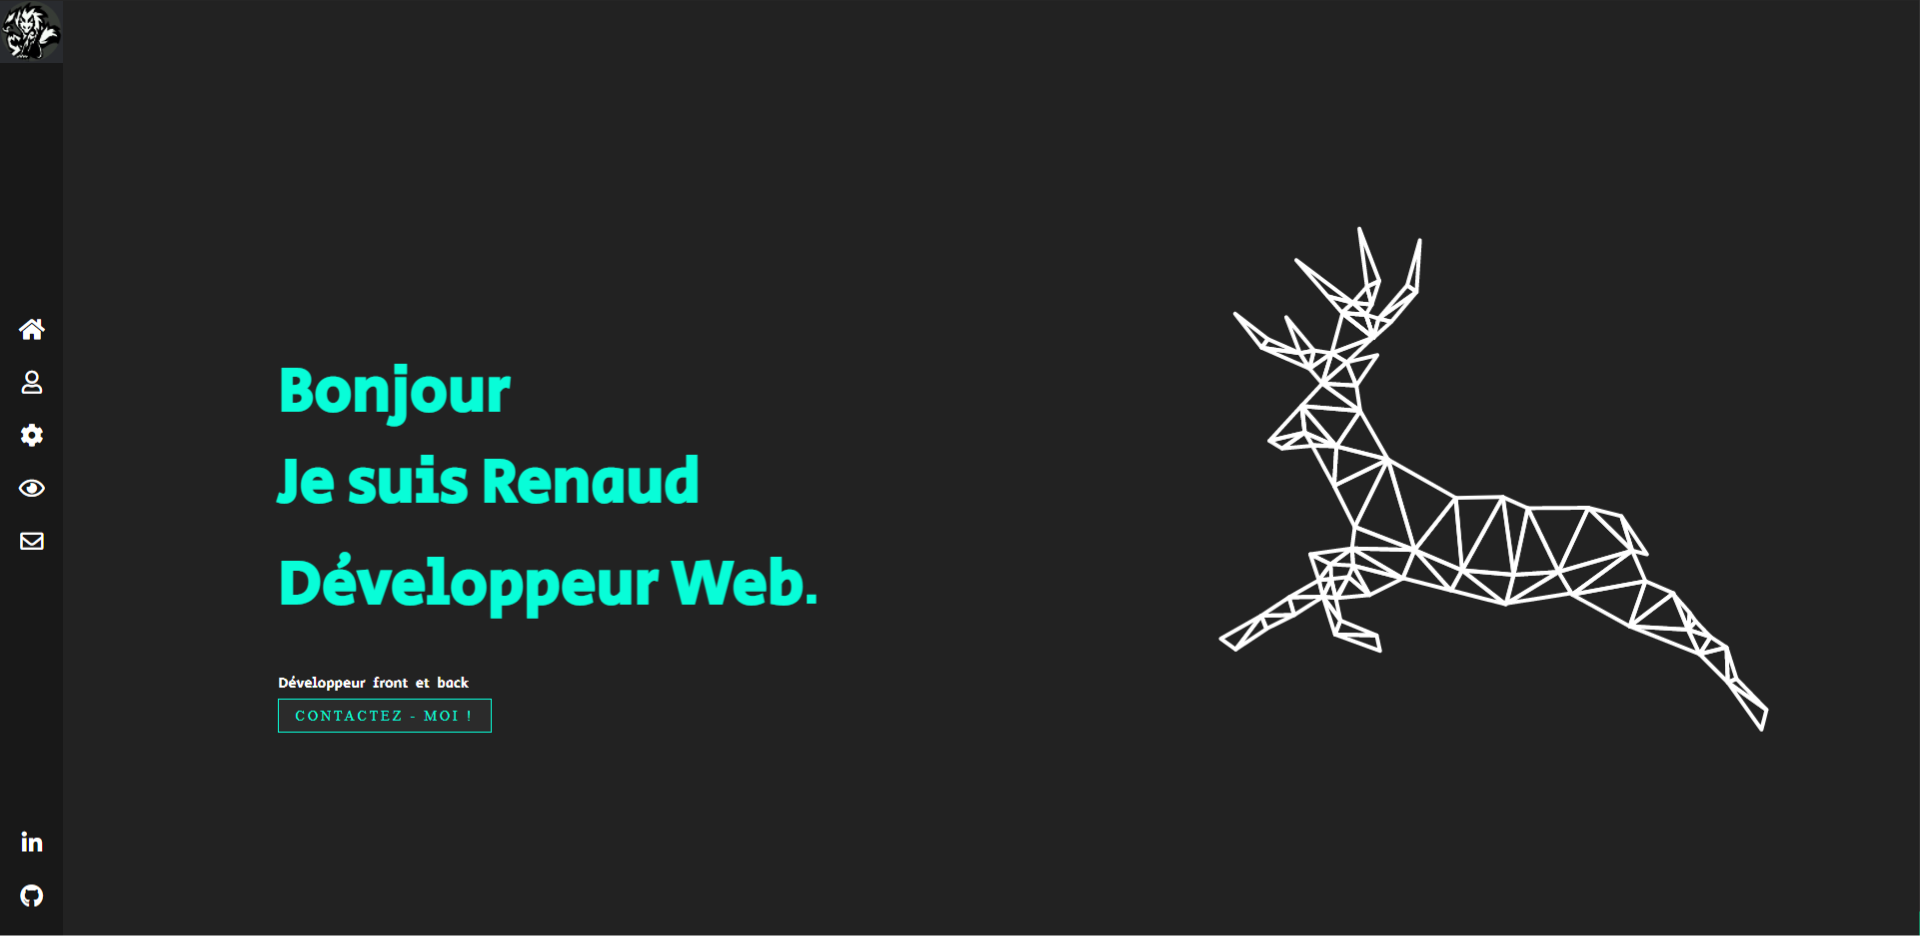
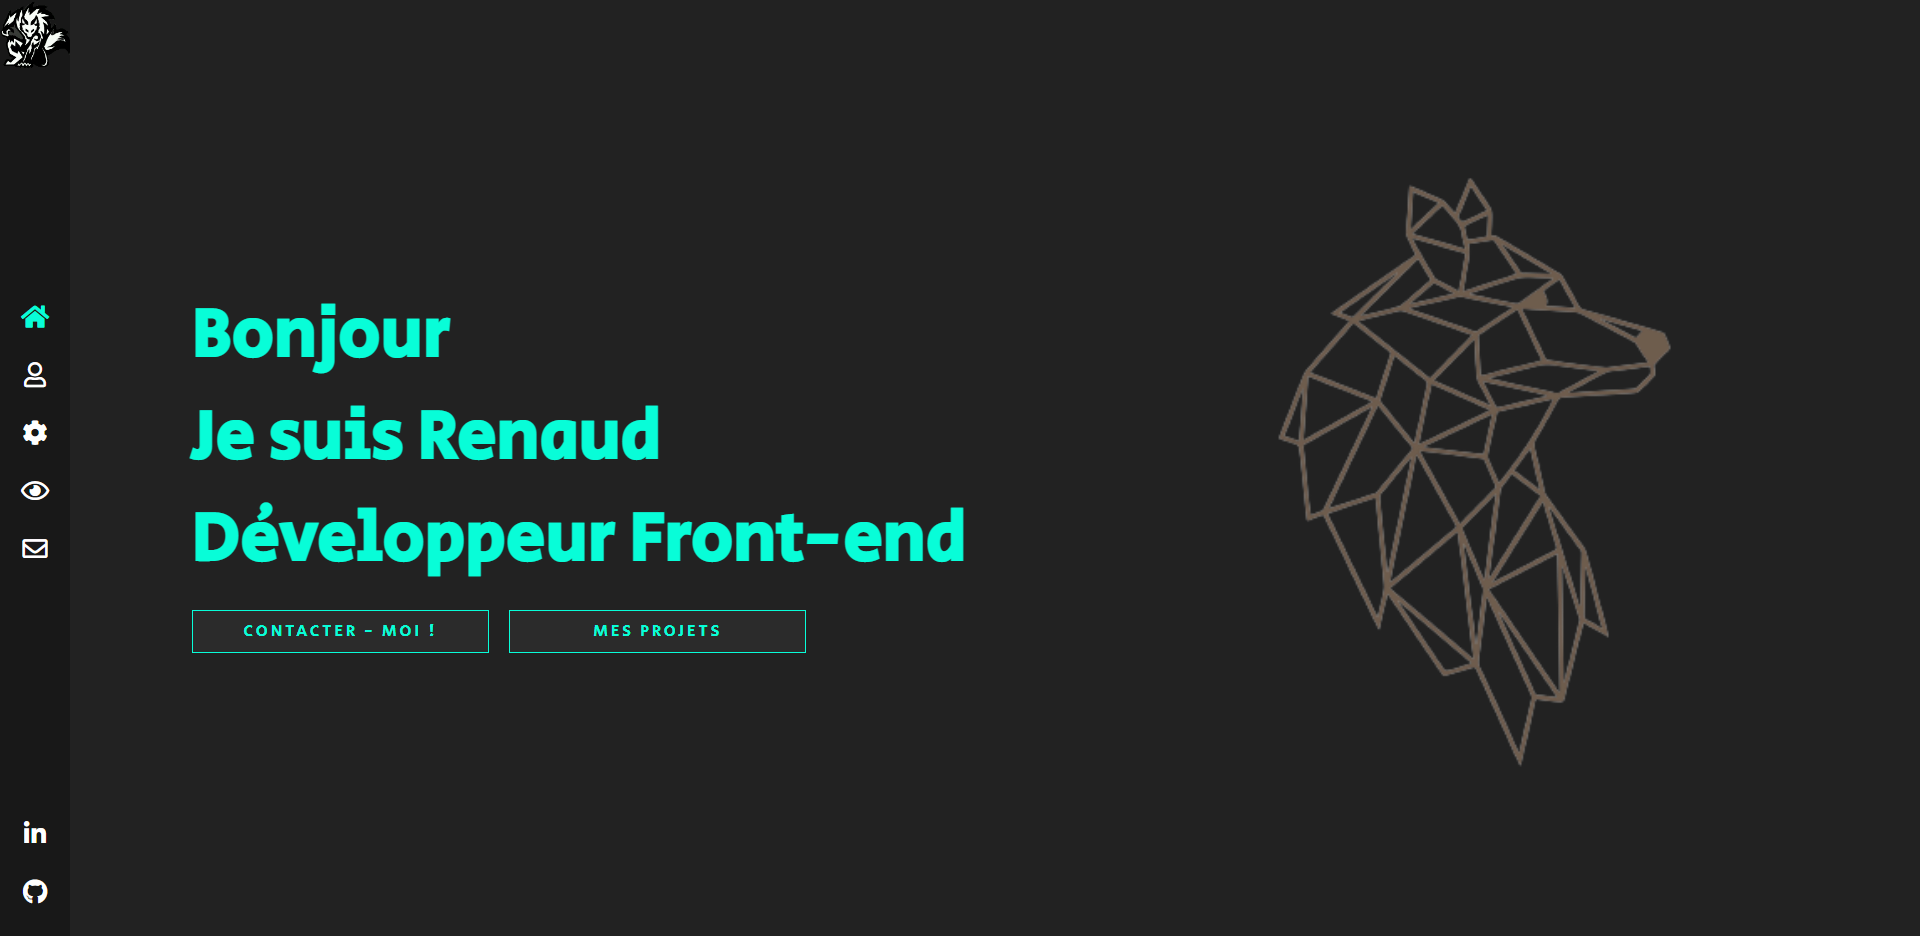
update : update style mobile , data project

diff --git a/src/components/Contact/Contact.vue b/src/components/Contact/Contact.vue
@@ -1,39 +1,39 @@
 <script>
 import { defineComponent } from 'vue'
-import emailjs from 'emailjs-com';
-import { ref } from 'vue';
+// import emailjs from '@emailjs/browser';
 
 export default defineComponent({
-  setup() {
-    const form = ref(null);
-    const inputFieldReset = ref(null);
-  },
-  methods: {
-    sendEmail(e) {
-      try {
-        emailjs.sendForm(this.emailServiceID, this.emailTemplateID, form.value, this.emailPublicKey)
-        .then((result) => {
-          console.log('SUCCESS!', result.text);
-        }, (error) => {
-          console.log('FAILED...', error.text);
-        });
-      } catch (error) {
-        console.log(error);
-      }
-    }
-  },
   data() {
     return {
-      sujet: '',
-      content: '',
-      form_name: '',
-      from_email: '',
+      sujet: null,
+      content: null,
+      form_name: null,
+      from_email: null,
       emailPublicKey: import.meta.env.VITE_EMAIL_PUBLIC_KEY,
       emailPrivateKey: import.meta.env.VITE_EMAIL_PRIVATE_KEY,
       emailServiceID: import.meta.env.VITE_EMAIL_SERVICE_ID,
       emailTemplateID: import.meta.env.VITE_EMAIL_TEMPLATE_KEY,
     }
-  }
+  },
+  methods:{
+    // sendEmail(e) {
+    //   console.log(e);
+    //   try {
+    //     emailjs.send('service_3gagdhh', 'template_bjr6xev', e.target,'8ai34btHdzJlxV8YL', {
+    //       subject: "subject vuye",
+    //       content: "content vuye",
+    //       from_name: "test1 vuye",
+    //       from_email: "renaudddddddfradin@gmail.com vuye",
+    //     })
+    //     .then((response) => {
+    //       console.log('succes', response.status, response);
+    //     })
+    //   } catch (error) {
+    //     console.log(error);
+    //   }
+    // }
+  },
+
 })
 </script>
 
@@ -41,16 +41,15 @@ export default defineComponent({
   <div class="contactCard">
     <h1 class="contactTitle">Contactez moi</h1>
     <p>Je suis interessé par les grands ou petits projets : il n'y a que la création qui compte !</p>
-    <p>Si vous avez des questions, n'hésitez pas à me contacter en utilisant mon adresse mail ou mon linkedin :</p>
-    <p>renaudfradin@gmail.com</p>
-    <a href="https://www.linkedin.com/in/Renaudfradin/" class="contactLink" target="_blank">Linkedin Renaud fradin</a>
-    <form ref="form" @submit.prevent="sendEmail" class="form">
-      <input type="text" name="from_name" class="formInput">
-      <input type="text" name="from_email" class="formInput">
-      <input type="text" name="content" class="formInput">
-      <input type="text" name="subject" class="formInput">
-      <input type="button" value="envoyer message">
-    </form>
+    <p>Si vous avez des questions, n'hésitez pas à me contacter en utilisant mon adresse mail : renaudfradin@gmail.com </p>
+    <p>ou mon linkedin : <a href="https://www.linkedin.com/in/Renaudfradin/" class="contactLink" target="_blank">Linkedin Renaud fradin</a></p>
+    <!-- <form class="form" @submit.prevent="sendEmail">
+      <input type="text" name="from_name" class="formInput" v-model="form_name">
+      <input type="text" name="from_email" class="formInput" v-model="from_email">
+      <input type="text" name="content" class="formInput" v-model="content">
+      <input type="text" name="subject" class="formInput" v-model="sujet">
+      <input type="button" value="Envoyer le message">
+    </form> -->
   </div>
 </template>
 

diff --git a/src/components/Works/Works.css b/src/components/Works/Works.css
@@ -90,8 +90,19 @@
   height: 25px;
   margin-top: 20px;
   margin-bottom: 20px;
-  border-radius: 10px;
+  border-radius: 5px;
   text-align: center;
+  background-color: #222222;
+  border: 1px solid #08fdd8;
+  color: #08fdd8;
+}
+
+.inputSearchwork::placeholder{
+  color: #4c887f;
+}
+
+.inputSearchwork:focus-visible{
+  outline: 1px solid #08fdd8;
 }
 
 @media screen and (max-width:650px) {
@@ -110,6 +121,10 @@
     margin-top: 20px;
     margin-bottom: 20px;
     border-radius: 10px;
+    border-radius: 5px;
+    text-align: center;
+    background-color: #222222;
+    border: 1px solid #08fdd8;
   }
 }
 
@@ -129,6 +144,10 @@
     margin-top: 20px;
     margin-bottom: 20px;
     border-radius: 10px;
+    border-radius: 5px;
+    text-align: center;
+    background-color: #222222;
+    border: 1px solid #08fdd8;
   }
 }
 
@@ -148,6 +167,10 @@
     margin-top: 20px;
     margin-bottom: 20px;
     border-radius: 10px;
+    border-radius: 5px;
+    text-align: center;
+    background-color: #222222;
+    border: 1px solid #08fdd8;
   }
 }
 
@@ -159,16 +182,18 @@
     grid-row-gap: 20px;
     place-content: end;
     padding-bottom: 30px;
+    justify-content: center;
   }
 }
 
-@media screen and (min-width:2441px){
+@media screen and (min-width:2500px){
   .worksWrapper{
     display: grid;
-    grid-template-columns: repeat(5, 22%);
+    grid-template-columns: repeat(4, 20%);
     grid-column-gap: 20px;
     grid-row-gap: 20px;
     place-content: end;
     padding-bottom: 30px;
+    justify-content: center;
   }
 }

diff --git a/index.html b/index.html
@@ -12,14 +12,13 @@
     <link href="https://fonts.googleapis.com/css2?family=La+Belle+Aurore&family=Secular+One&display=swap" rel="stylesheet">
     <link href="https://fonts.googleapis.com/css2?family=Oswald:wght@600&display=swap" rel="stylesheet">
     <meta name="title" content="Portfolio Renaud Fradin">
-    <meta name="description" content="Portfolio de Renaud Fradin , Développeur fullstack">
+    <meta name="description" content="Portfolio de Renaud Fradin , Développeur front-end">
     <title>Portfolio</title>
   </head>
   <body>
     <div id="app"></div>
     <script type="module" src="/src/main.js"></script>
   </body>
-  <!-- Google tag (gtag.js) -->
   <script async src="https://www.googletagmanager.com/gtag/js?id=G-WWJ6L0TFFG"></script>
   <script>
     window.dataLayer = window.dataLayer || [];

diff --git a/src/router/index.js b/src/router/index.js
@@ -1,11 +1,11 @@
 import { createRouter, createWebHistory } from 'vue-router'
-import Home from '@/views/home.vue'
-import About from '@/views/about.vue'
-import Skills from '@/views/skills.vue'
-import Works from '@/views/works.vue'
-import Work from '@/components/Work/Work.vue'
-import Contact from '@/views/contact.vue'
-import NotFound from '@/views/404.vue'
+import Home from '@views/home.vue'
+import About from '@views/about.vue'
+import Skills from '@views/skills.vue'
+import Works from '@views/works.vue'
+import Work from '@components/Work/Work.vue'
+import Contact from '@views/contact.vue'
+import NotFound from '@views/404.vue'
 
 const router = createRouter({
   history: createWebHistory(import.meta.env.BASE_URL),

diff --git a/src/components/Contact/Contact.css b/src/components/Contact/Contact.css
@@ -28,3 +28,22 @@
   background-color: #222222;
   border: 1px solid #08fdd8;
 }
+
+@media screen and (max-width:425px){
+  .contactCard {
+    color: #fff;
+    display: flex;
+    height: auto;
+    width: 90%;
+    flex-direction: column;
+    justify-content: flex-start;
+    align-items: flex-start;
+  }
+
+  .contactTitle{
+    margin-top: 20px;
+    margin-bottom: 0px;
+    margin-left: auto;
+    margin-right: auto;
+  }
+}

diff --git a/src/views/works.vue b/src/views/works.vue
@@ -1,20 +1,18 @@
 <script>
 import { defineComponent } from "vue"
-import Works from '../components/Works/Works.vue'
+import Works from '@components/Works/Works.vue'
 
 export default defineComponent({
-    components:{
-        Works
-    }
+  components:{
+    Works
+  }
 })
 </script>
 
 <template>
-    <div>
-        <Works />
-    </div>
+  <div>
+    <Works />
+  </div>
 </template>
 
-<style>
-
-</style>
+<style> </style>

diff --git a/src/views/skills.vue b/src/views/skills.vue
@@ -1,10 +1,10 @@
 <script>
 import { defineComponent } from "vue"
-import Skill from '../components/Skills/Skills.vue'
+import Skill from '@components/Skills/Skills.vue'
 
 export default defineComponent({
-    setup() { },
-    components:{ Skill }
+  setup() { },
+  components:{ Skill }
 })
 </script>
 
@@ -12,6 +12,4 @@ export default defineComponent({
   <Skill />
 </template>
 
-<style>
-
-</style>
+<style> </style>

diff --git a/vite.config.js b/vite.config.js
@@ -8,7 +8,9 @@ export default defineConfig({
   plugins: [vue()],
   resolve: {
     alias: {
-      '@': fileURLToPath(new URL('./src', import.meta.url))
+      '@': fileURLToPath(new URL('./src', import.meta.url)),
+      '@components': fileURLToPath(new URL('./src/components', import.meta.url)),
+      '@views': fileURLToPath(new URL('./src/views', import.meta.url))
     }
   }
 })

diff --git a/src/views/home.vue b/src/views/home.vue
@@ -1,7 +1,7 @@
 <script>
 import { defineComponent } from "vue";
-import HomeComponents from '../components/Home/Home.vue';
-import Wolf from '../components/Wolf/Wolf.vue';
+import HomeComponents from '@components/Home/Home.vue';
+import Wolf from '@components/Wolf/Wolf.vue';
 
 export default defineComponent({
   components: { HomeComponents,Wolf },

diff --git a/src/views/about.vue b/src/views/about.vue
@@ -1,7 +1,7 @@
 <script>
 import { defineComponent } from "vue";
-import Wolf from '../components/Wolf/Wolf.vue'
-import About from '../components/About/About.vue'
+import Wolf from '@components/Wolf/Wolf.vue'
+import About from '@components/About/About.vue'
 
 export default defineComponent({
   setup() { },

diff --git a/src/App.vue b/src/App.vue
@@ -1,6 +1,6 @@
 <script>
 import { RouterLink, RouterView } from 'vue-router'
-import NavBar from '../src/components/NavBar/NavBar.vue'
+import NavBar from '@components/NavBar/NavBar.vue'
 import { useMeta } from 'vue-meta'
 
 export default {

diff --git a/src/views/404.vue b/src/views/404.vue
@@ -1,6 +1,6 @@
 <script>
 import { defineComponent } from "vue";
-import NotFound from "../components/404/404.vue"
+import NotFound from "@components/404/404.vue"
 export default defineComponent({
   setup() { },
   components:{ NotFound }
